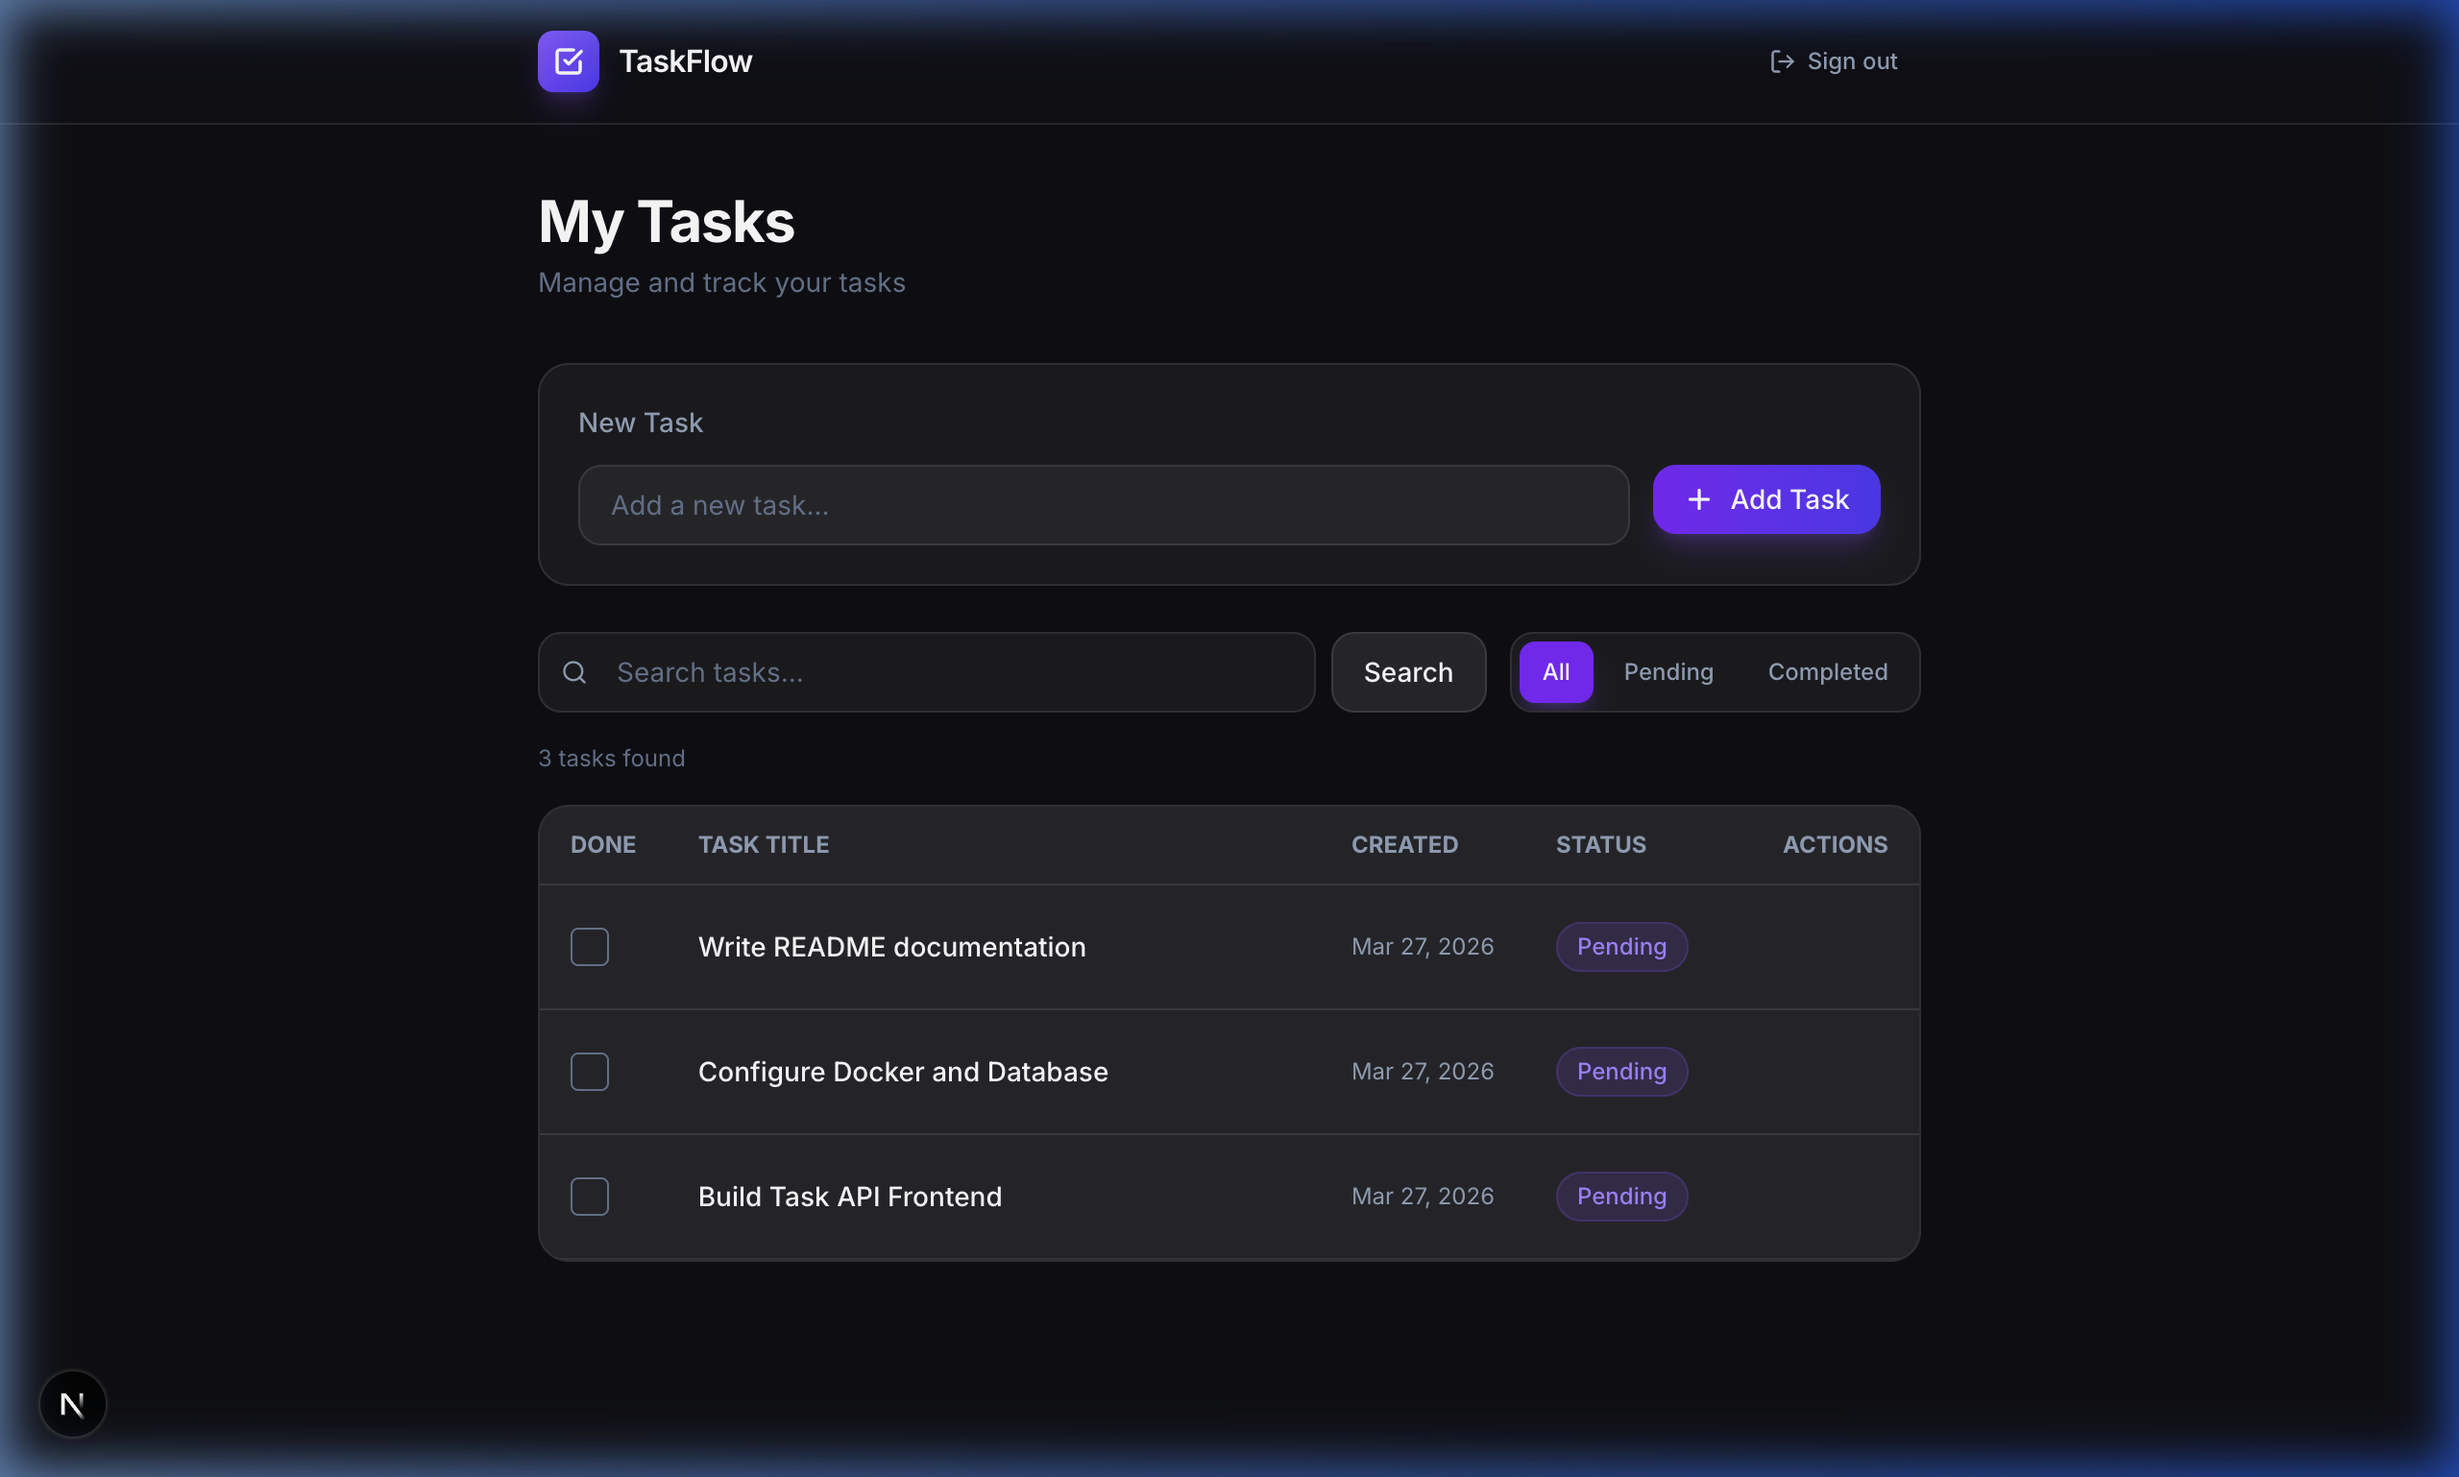
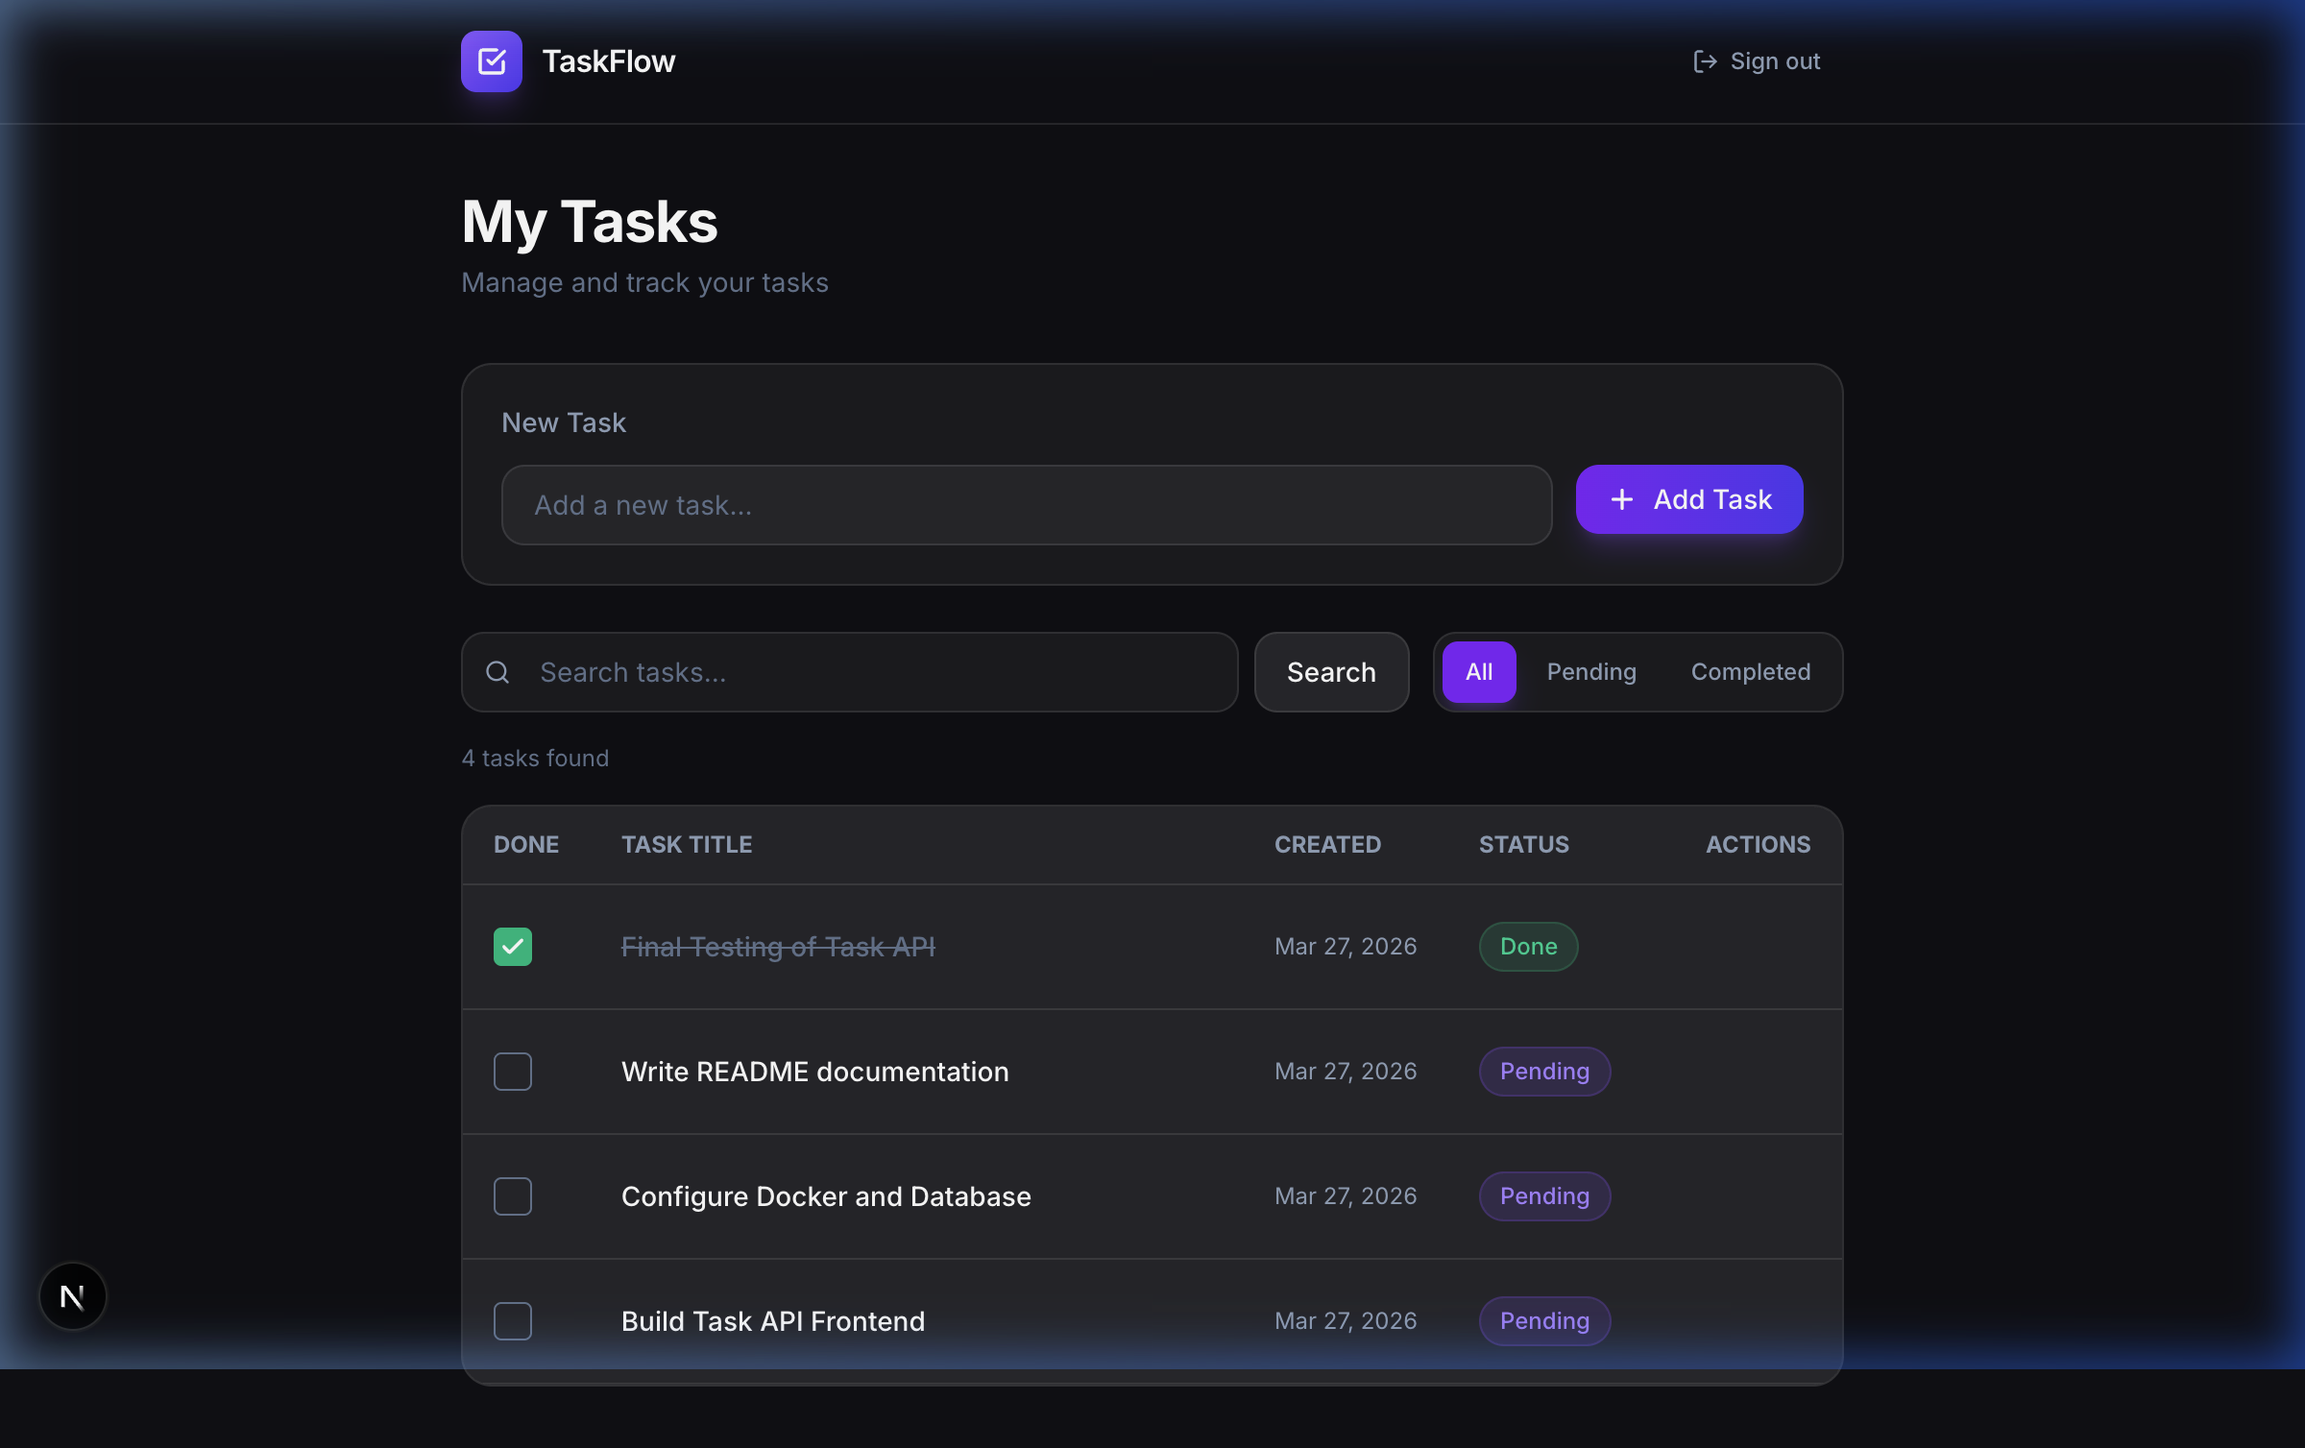
docs: add freshly captured working UI screenshots including success toasts

diff --git a/README.md b/README.md
@@ -173,6 +173,18 @@ Authorization: Bearer <token>
 }
 ```
 
+### Dashboard (Task Table)
+![Dashboard](docs/screenshots/dashboard.png)
+
+### Edit Task Modal
+![Edit Modal](docs/screenshots/edit_modal.png)
+
+### Success Notifications
+![Success Toast](docs/screenshots/toast.png)
+
+### Login Page
+![Login](docs/screenshots/login.png)
+
 ## Database Schema
 The database operates on a relational model enforcing strict foreign key constraints and cascading deletions.
 
